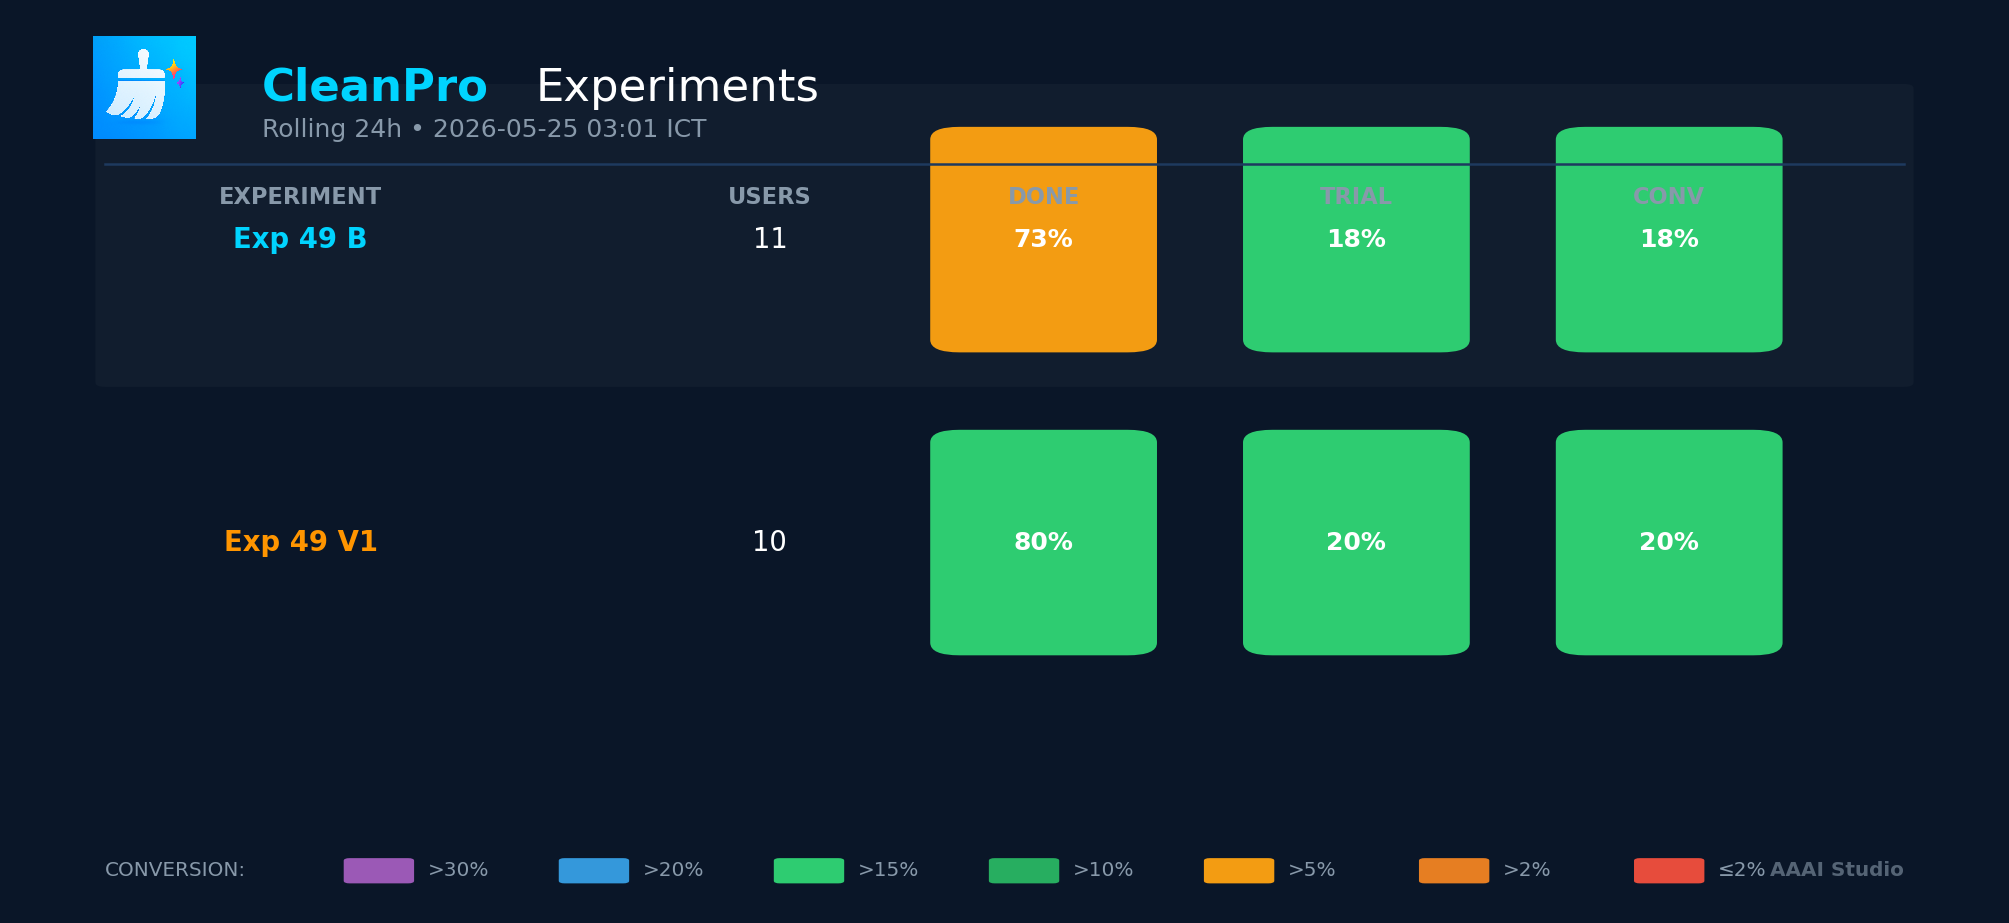
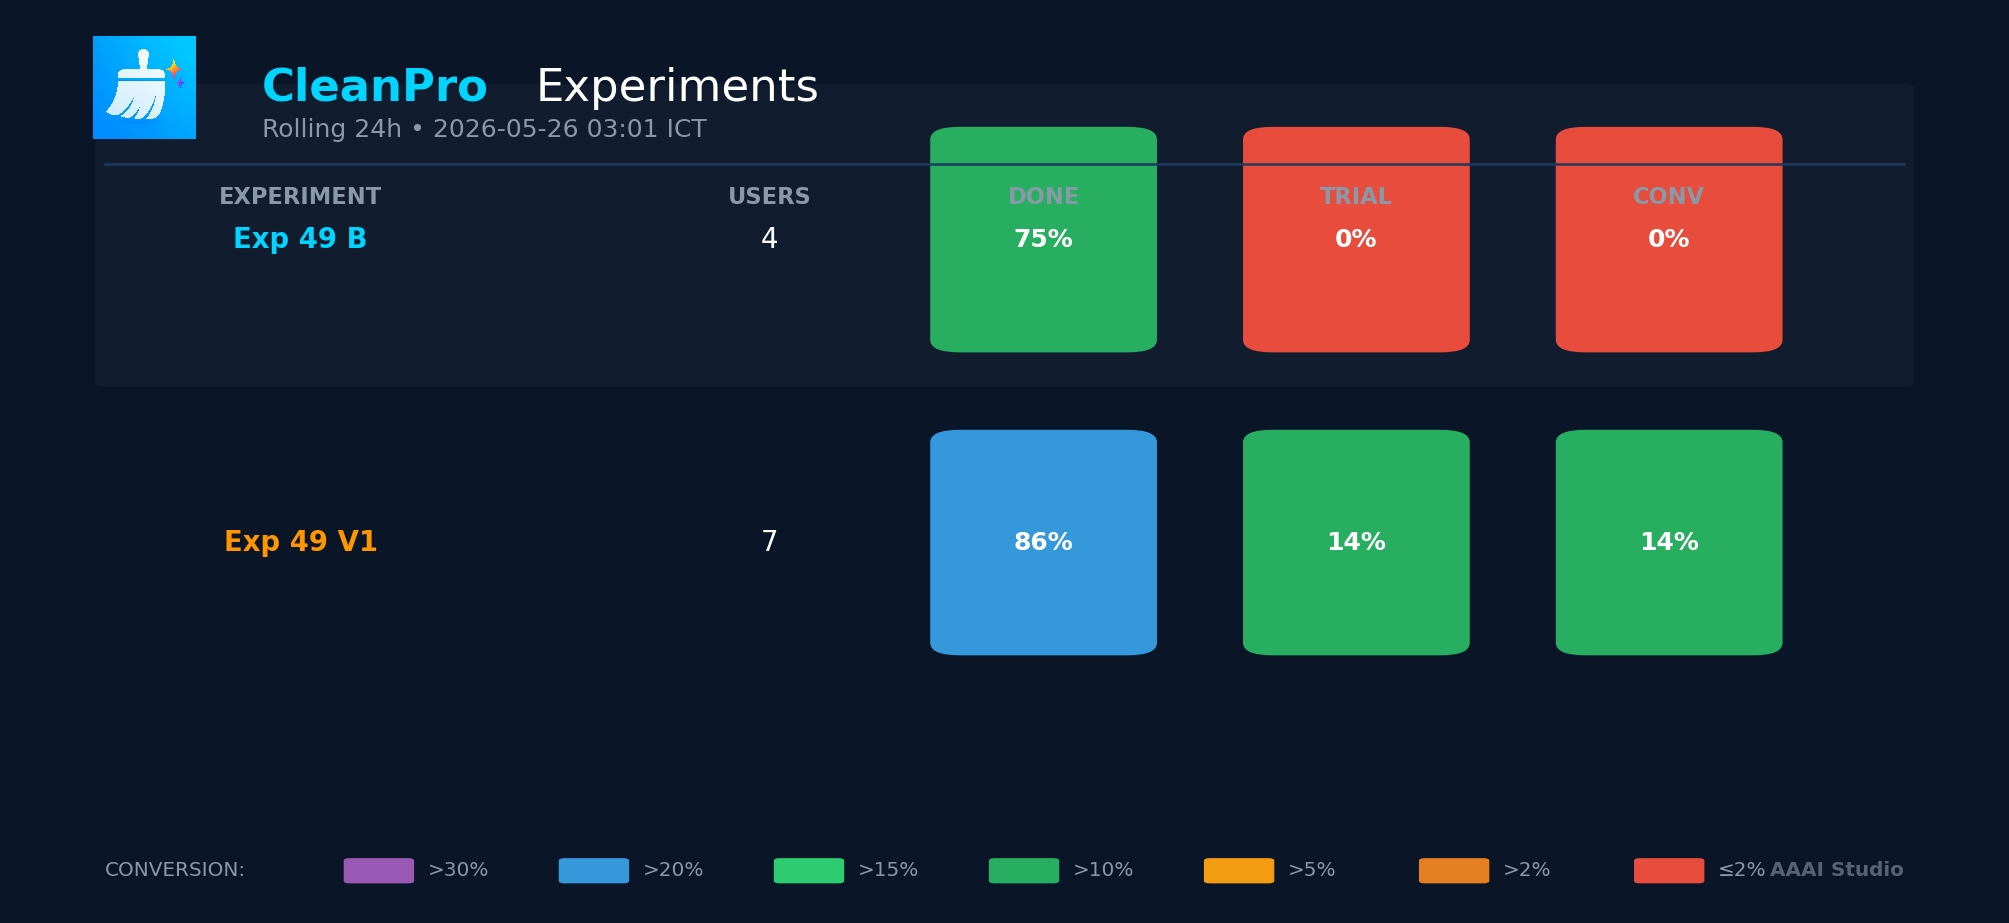
auto-commit safety net: 2026-05-26 03:56

diff --git a/reports/cleanpro/daily/2026-05-26.md b/reports/cleanpro/daily/2026-05-26.md
@@ -1,0 +1,63 @@
+📊 CleanPro Daily — 2026-05-26 (rolling 24h as of 03:00 ICT)
+
+👥 GROWTH
+  New users: 101 (DoD -2% · WoW -3%)
+  Returning: 325
+
+  📍 New Users by Country (Top 10):
+    Romania: 31
+    Spain: 24
+    Costa Rica: 9
+    Vietnam: 6
+    Italy: 5
+    Hungary: 4
+    Saudi Arabia: 3
+    Netherlands: 3
+    Philippines: 2
+    China: 2
+
+🚀 ONBOARDING (new→paywall→home)
+  📍 Completion by Country (Top 10):
+    Romania: 31→30→26 (86.7% complete) 🟢
+    Spain: 24→22→13 (59.1% complete) 🔴
+    Costa Rica: 9→9→9 (100.0% complete) 🟣
+    Vietnam: 6→5→5 (100.0% complete) 🟣
+    Italy: 5→5→3 (60.0% complete) 🟠
+    Hungary: 4→5→2 (40.0% complete) 🔴
+    Saudi Arabia: 3→3→3 (100.0% complete) 🟣
+    Netherlands: 3→3→3 (100.0% complete) 🟣
+    Philippines: 2→1→1 (100.0% complete) 🟣
+    China: 2→2→1 (50.0% complete) 🔴
+
+💰 MONETIZATION
+  📊 Funnel:
+    New users: 101 → paywall 92 → trial 13 → paid 13 (12.9%) ✅
+    Returning: 308 → paywall 83 → trial 1 → paid 11 (3.6%) 🟠
+
+  Overall: 175 paywall → 14 trial → 24 paid
+  Paywall→Trial: 8.0% · Trial→Paid (7d): 0/83 (0.0%)
+  Cancellations: 21 · Expirations: 8 · Billing issues: 6
+  DoD +20% · WoW +14%
+
+  📍 Conversion by Country (Top 10):
+    TOTAL: 141→16 (11.3%) ✅
+    ─────────────────────
+    Romania: 39→9 (23.1%) 🟢
+    Spain: 31→1 (3.2%) 🟠
+    Costa Rica: 18→1 (5.6%) ⚠
+    Philippines: 14→1 (7.1%) ⚠
+    Vietnam: 9→1 (11.1%) ✅
+    Italy: 9→2 (22.2%) 🟢
+    Saudi Arabia: 6→0 (0.0%) 🔴
+    Hungary: 5→1 (20.0%) ✅
+    Netherlands: 5→0 (0.0%) 🔴
+    Myanmar (Burma): 5→0 (0.0%) 🔴
+
+🧪 EXPERIMENTS (B=Baseline | users/done%/trial%/conv%)
+    49: B:4u/75%/0%/0%🔴 | V1:7u/86%/14%/14%✅
+
+🧹 PRODUCT
+  Scans: 127 users (152 total scans)
+  Cleans: 15 users
+  First scan: 28 new users completed
+  First delete: 37 new users completed
